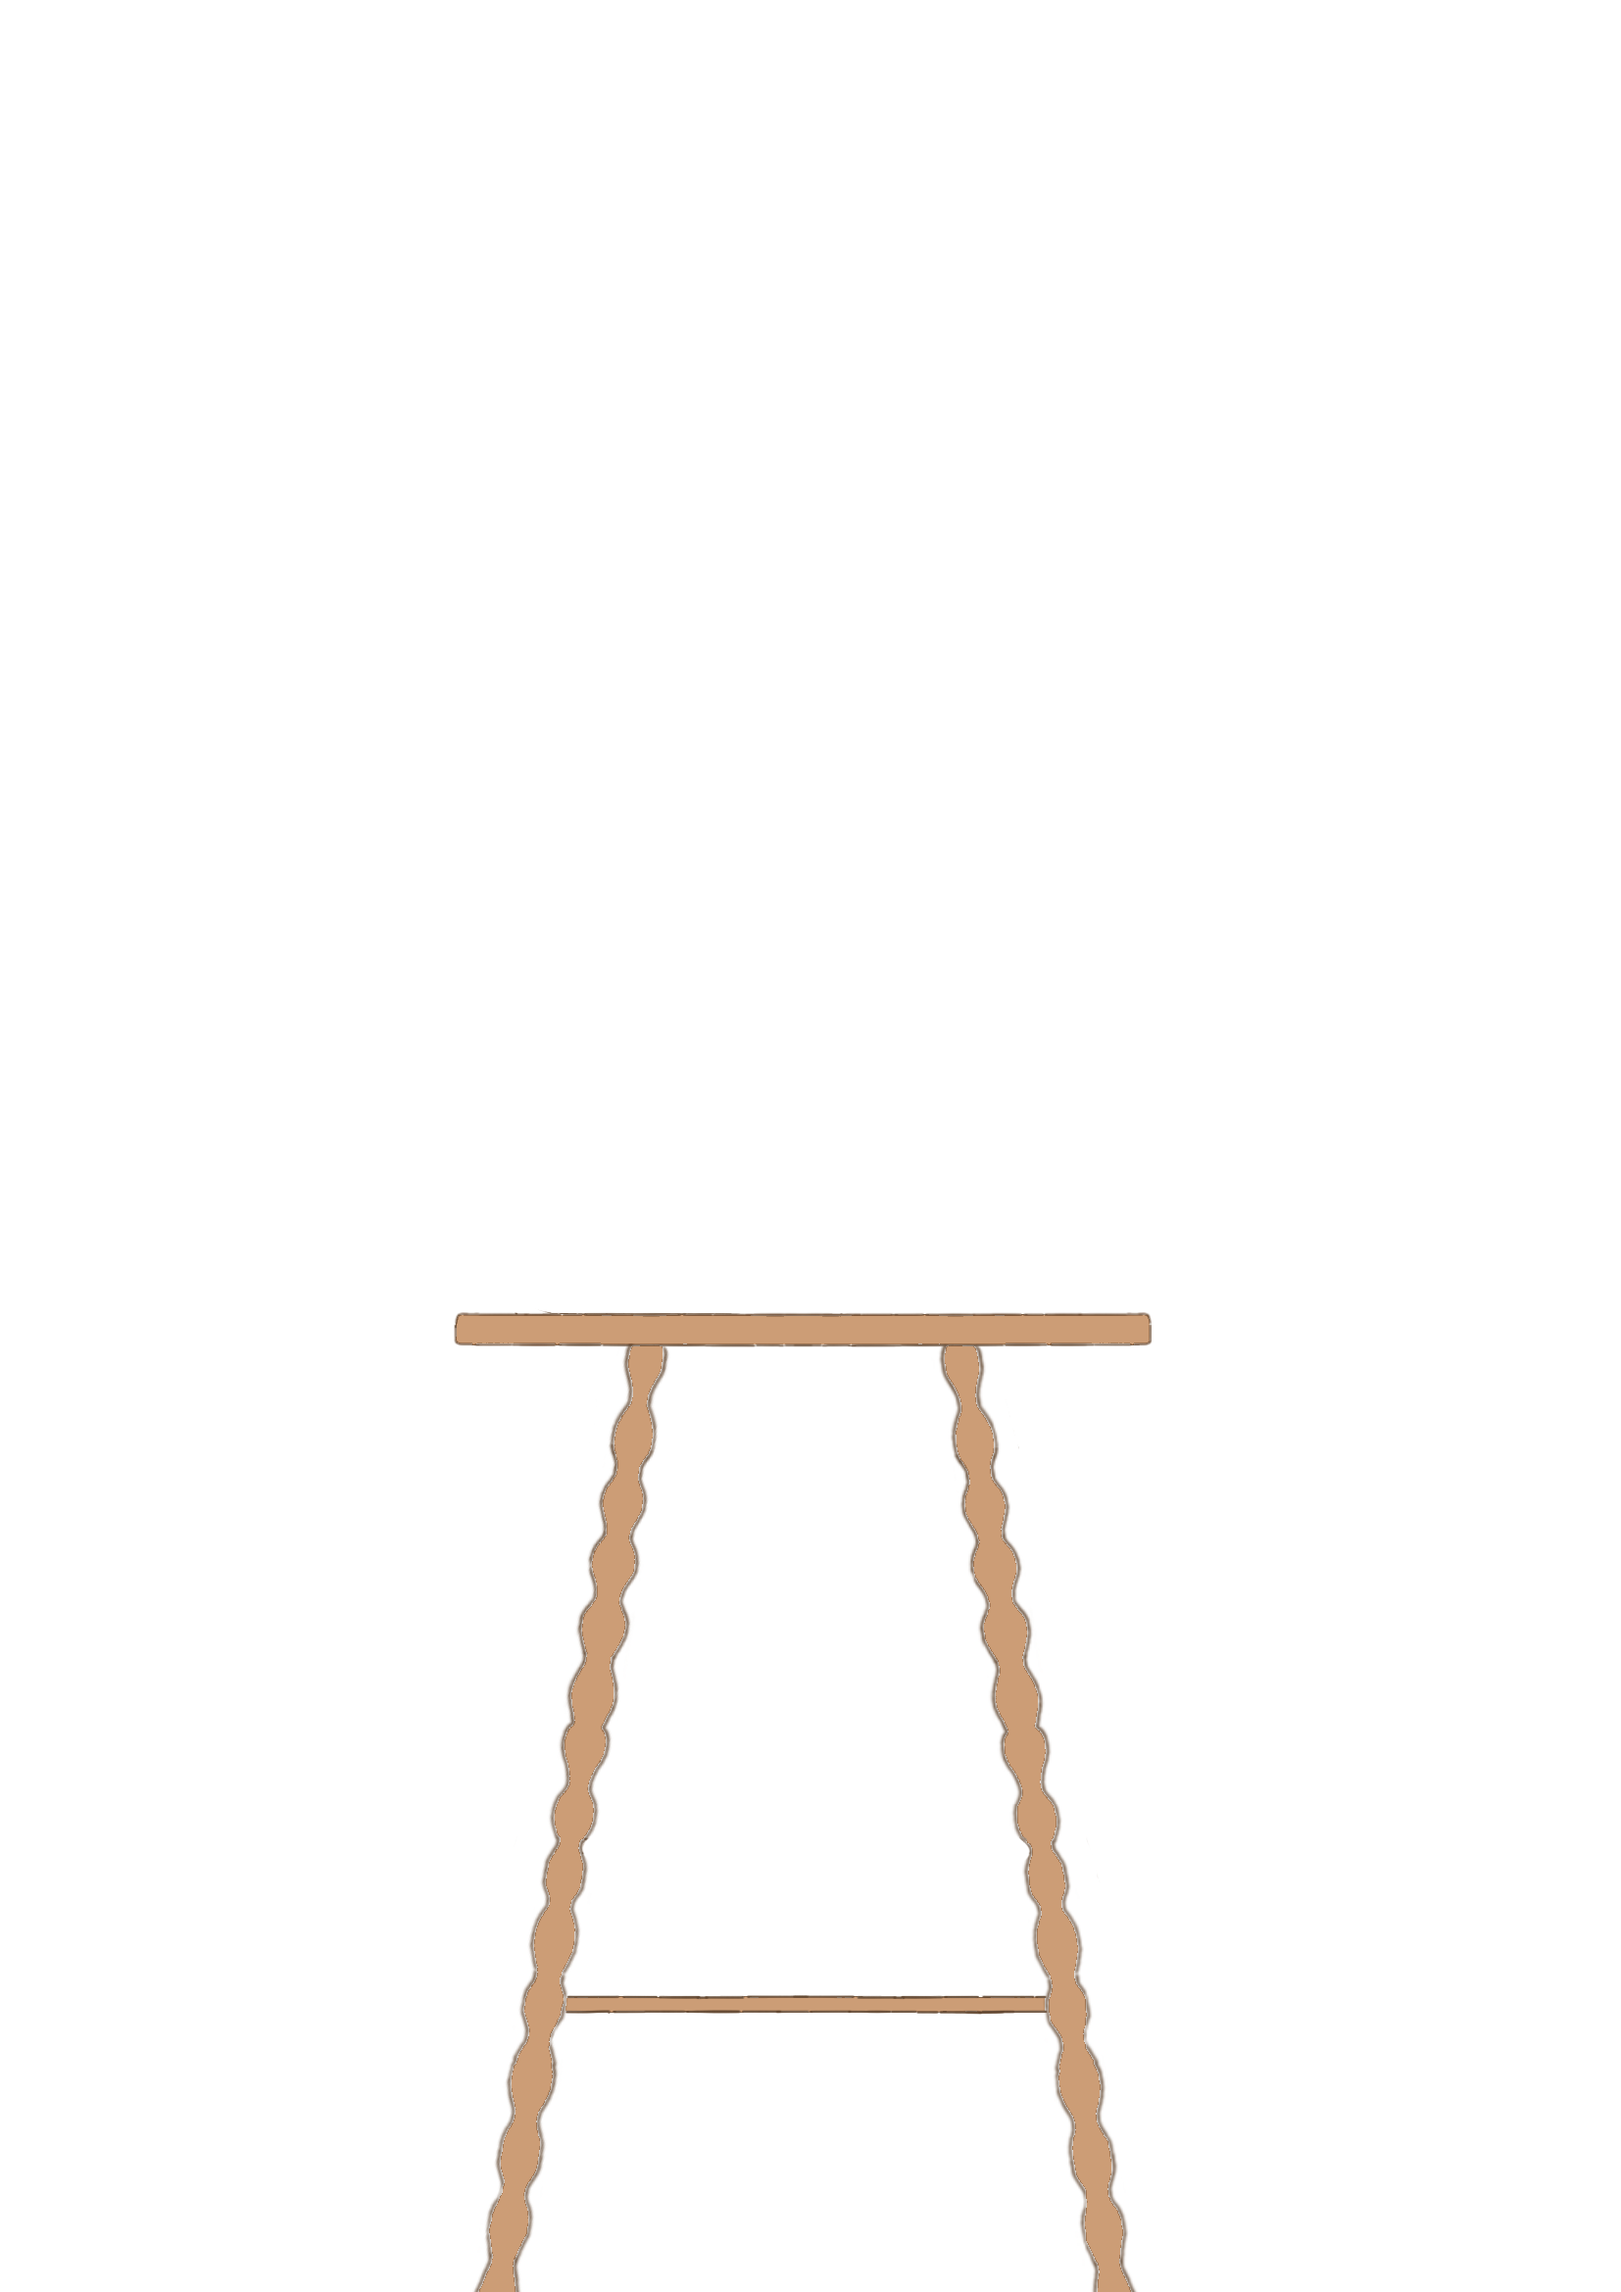
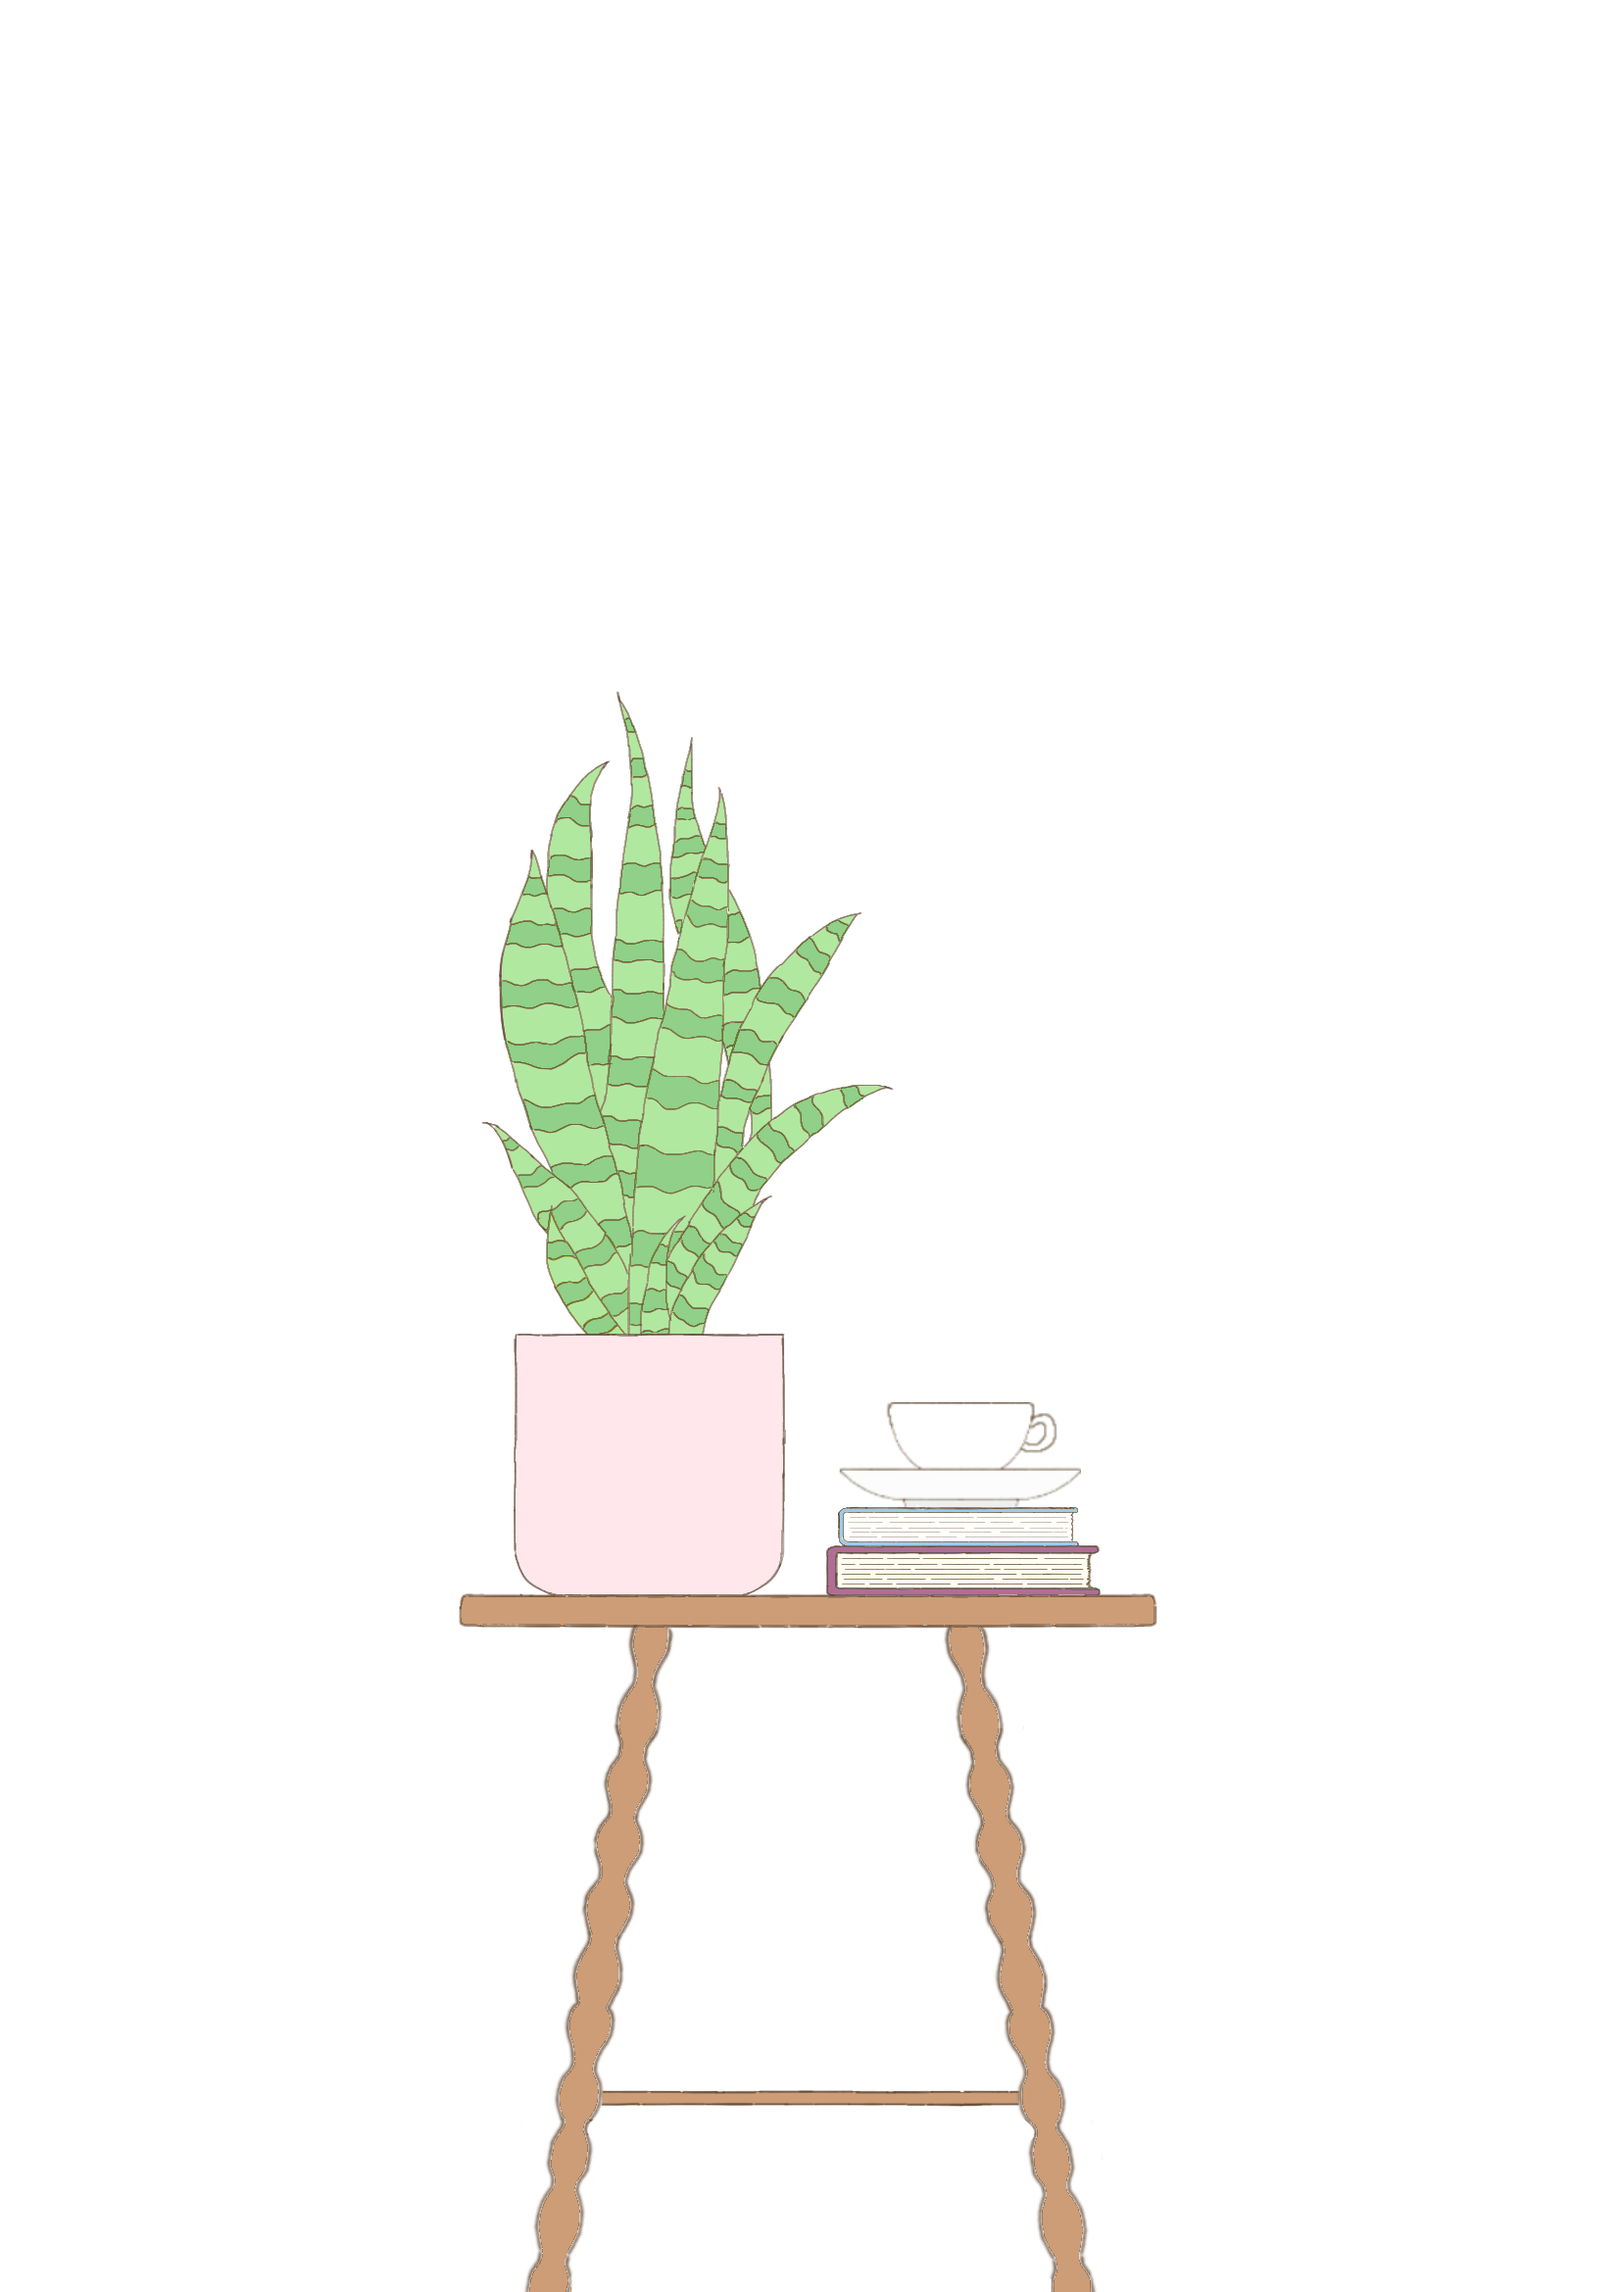
Changed lamp color and updated side table

Changed region(s): [[0.2775, 0.3121, 0.7092, 1.0]]

diff --git a/index.html b/index.html
@@ -56,8 +56,8 @@
       id="lampCord"
       src="./images/lampCord.skt/Layer~1.png"
     />
-    <img class="lamp" src="./images/lamp.skt/Layer~1.png" />
-    <img class="lampOn" id="lampOn" src="./images/lampOn.skt/Layer~1.png" />
+    <img class="lamp" src="./images/Lamp.png" />
+    <img class="lampOn" id="lampOn" src="./images/lampOn.png" />
     <button class="lampCordOnButton" id="lampCordOn"></button>
     <button class="lampCordOffButton" id="lampCordOff"></button>
 

diff --git a/styles.css b/styles.css
@@ -1723,8 +1723,8 @@ body {
   position: absolute;
   height: 400px;
   width: 280px;
-  left: 1170.235px;
-  top: -60.295px;
+  left: 1170.7px;
+  top: -59.295px;
 }
 
 .lampCord {
@@ -1802,8 +1802,8 @@ body {
 
 .plantTable {
   position: absolute;
-  height: 500px;
-  width: 400px;
-  top: 357px;
-  left: -70px;
+  height: 650px;
+  width: 430px;
+  top: 207px;
+  left: -90px;
 }
